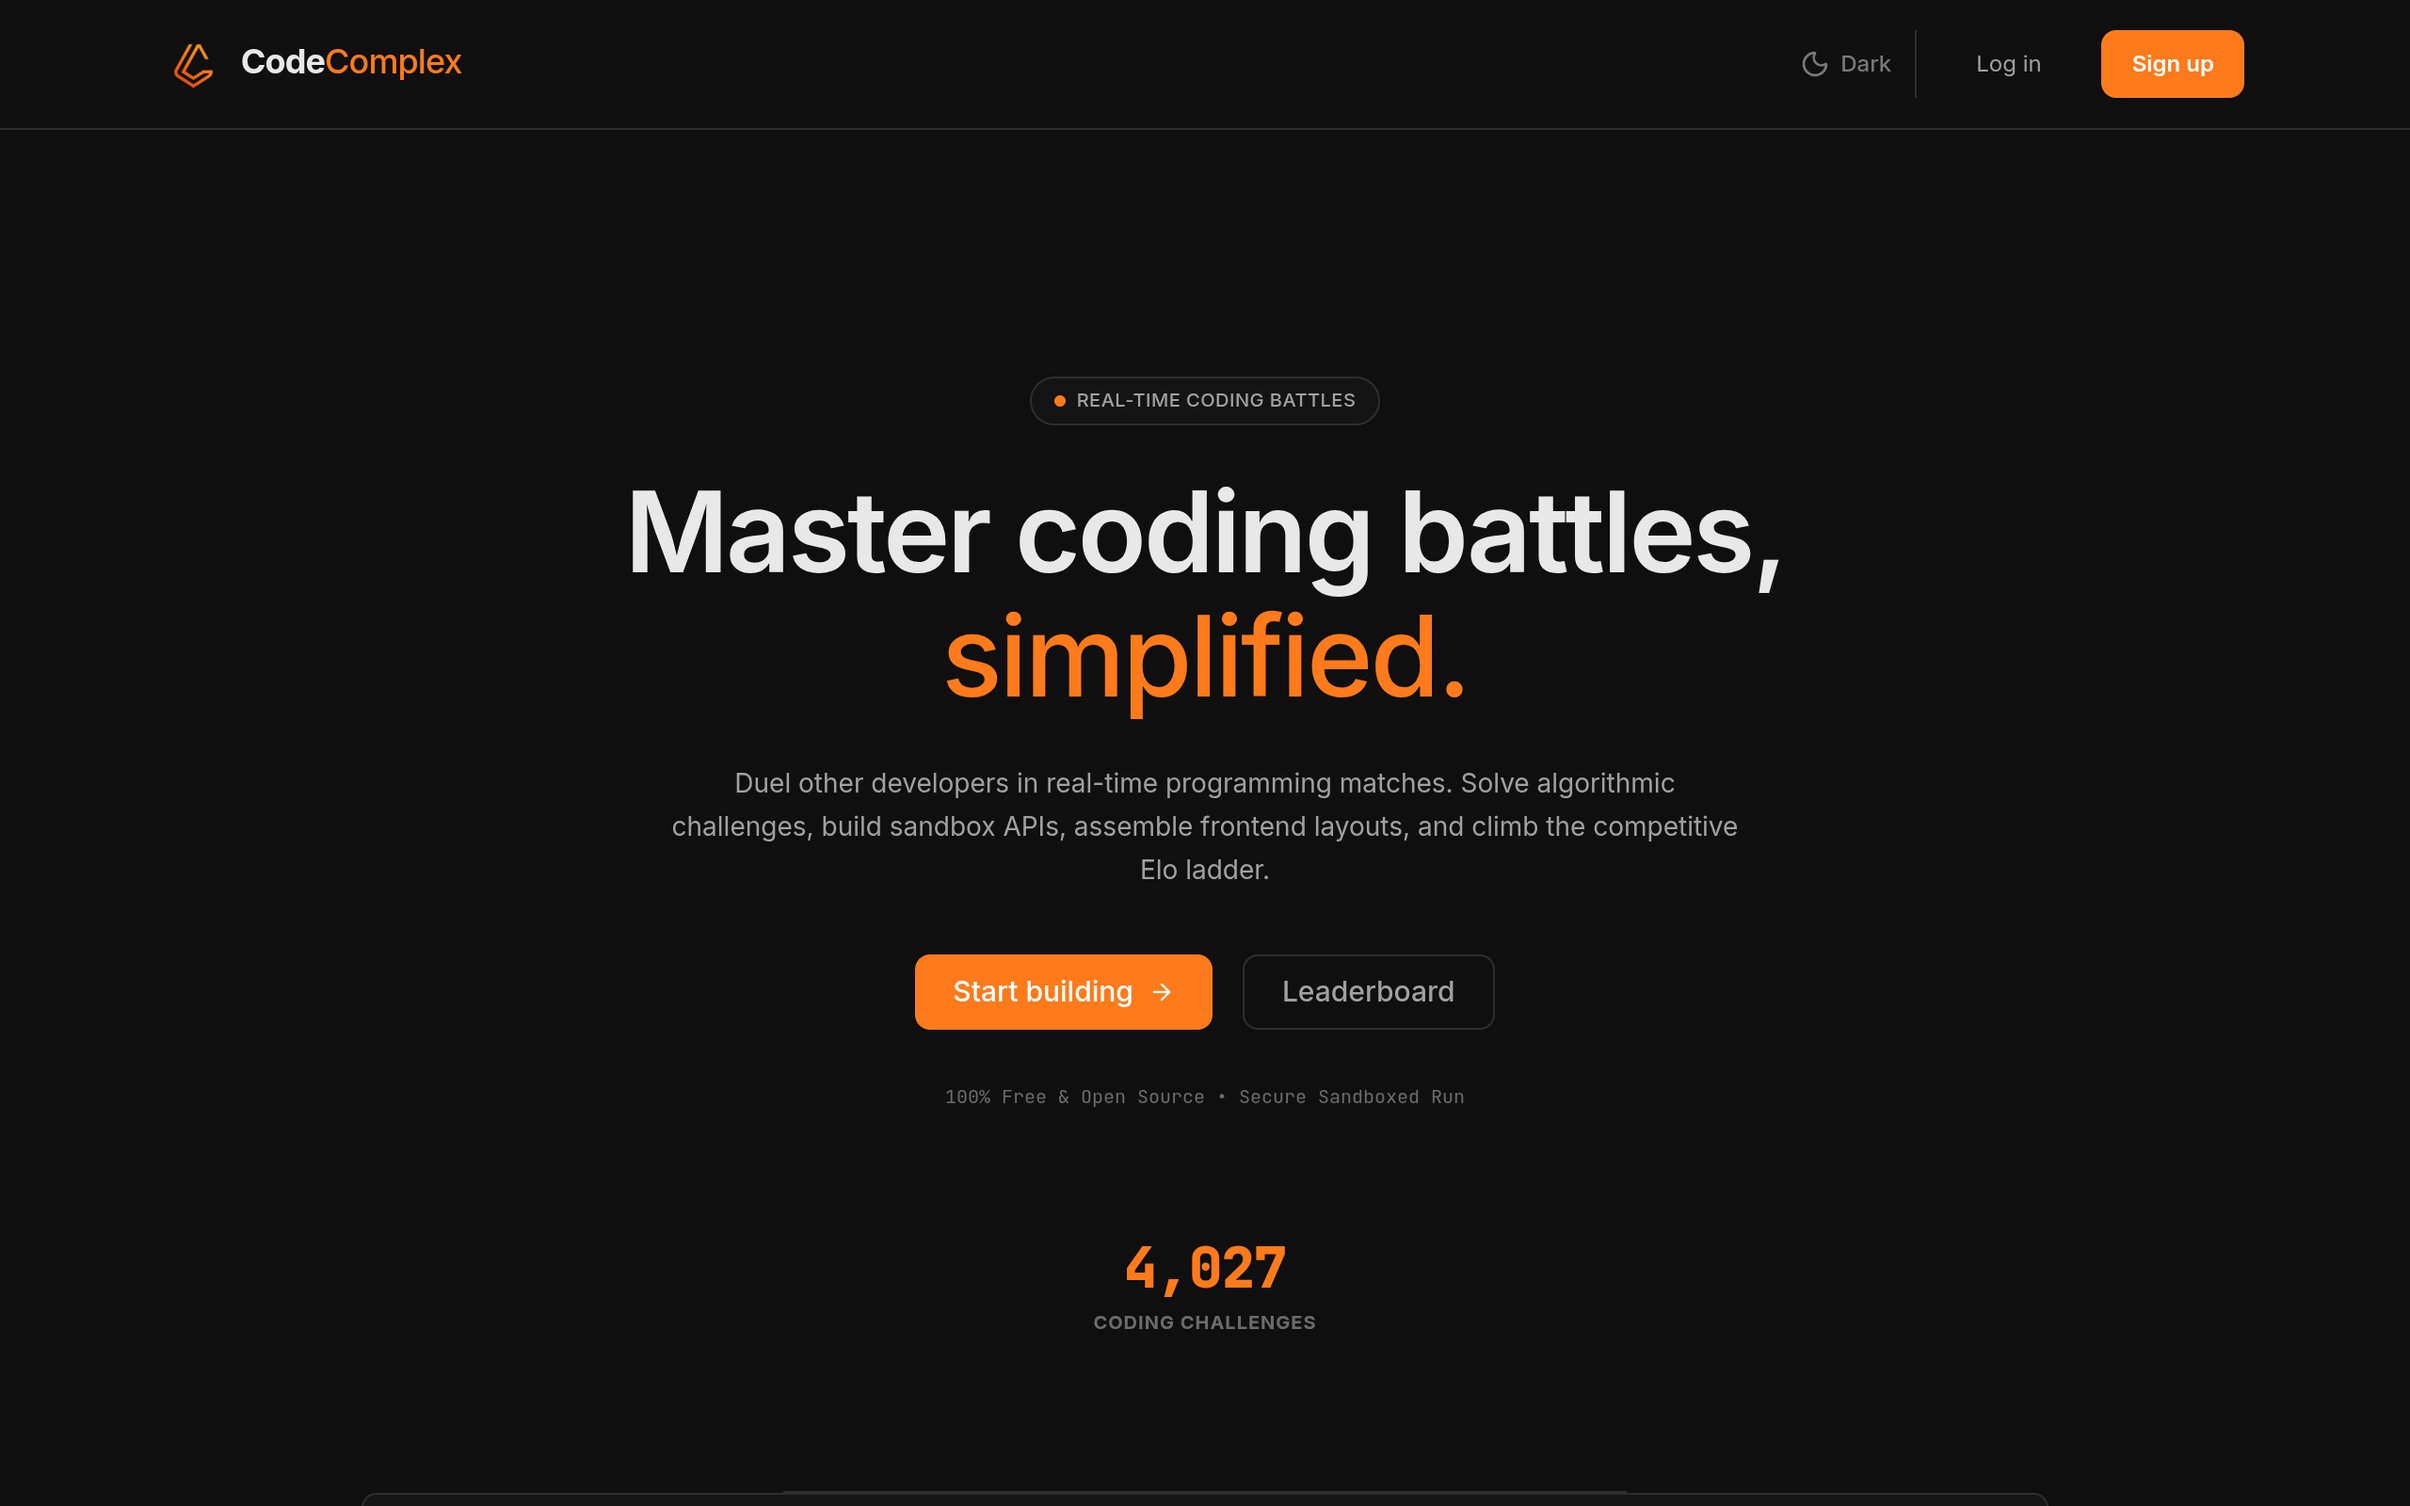
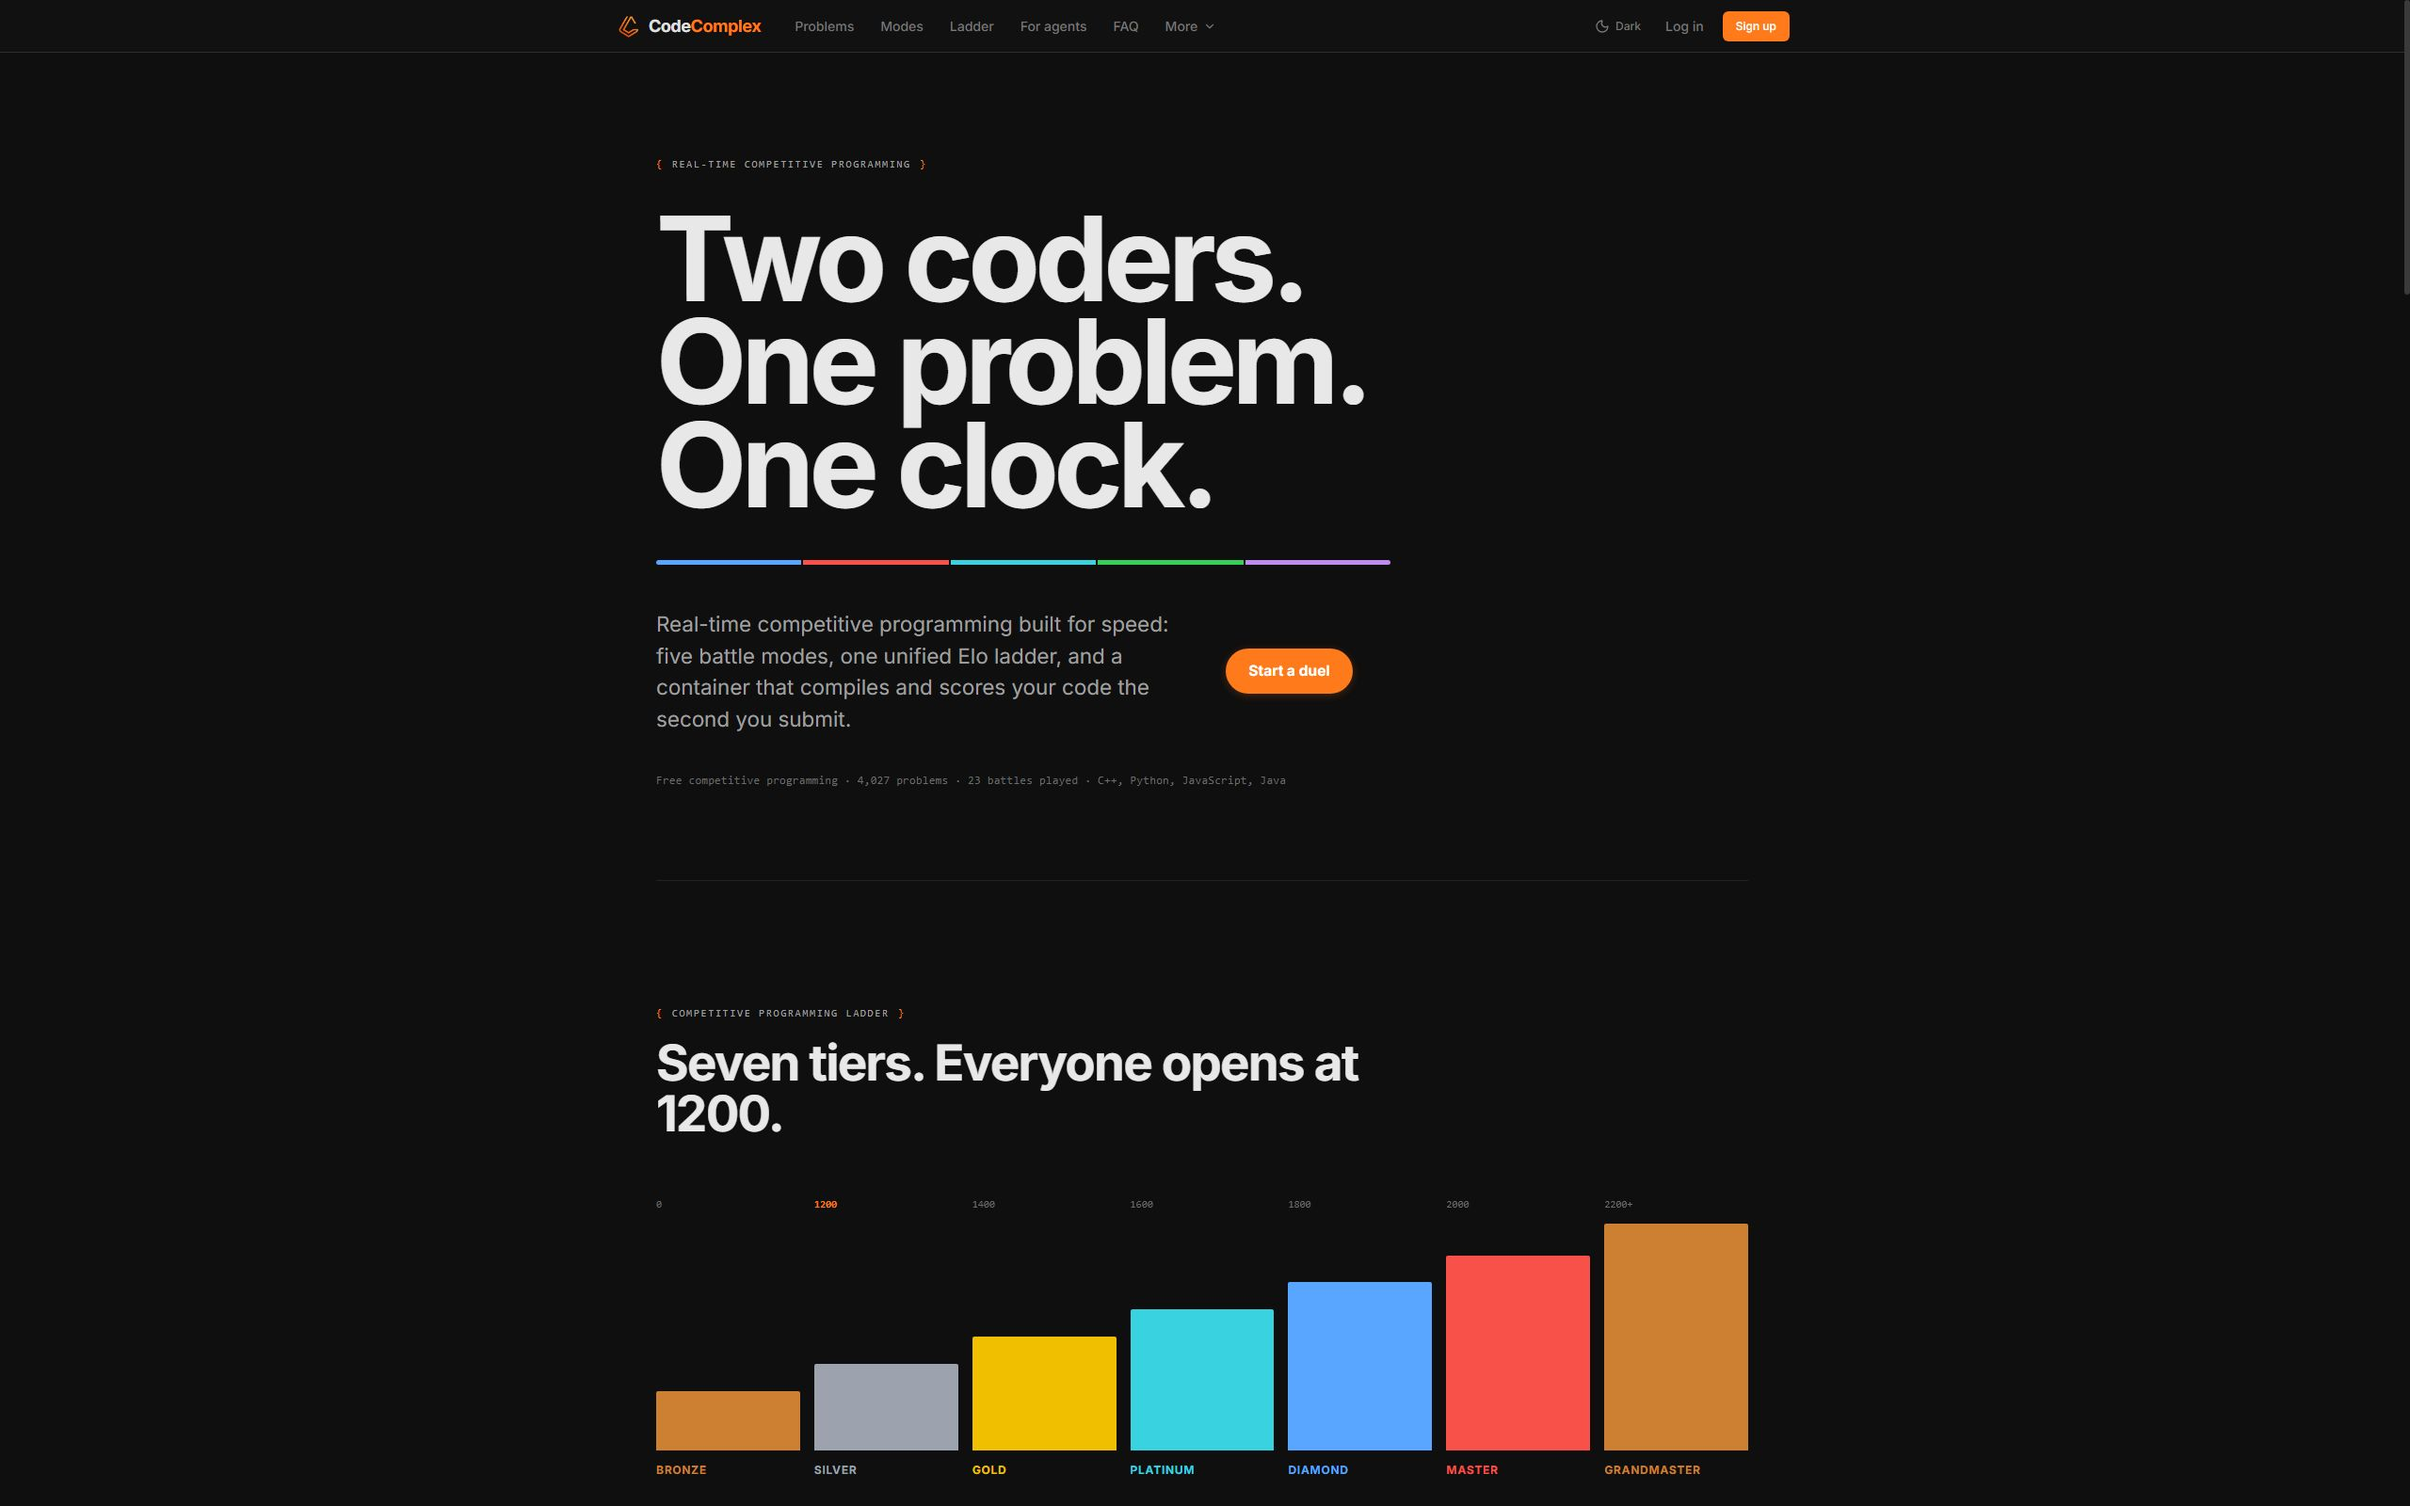
Update screenshots for all projects (CodeComplex, Distributed Cache, NewsComplex)

diff --git a/index.html b/index.html
@@ -445,7 +445,7 @@
       </ul>
       <div class="project-links">
         <a href="https://github.com/sisodiaumang/Blogify" target="_blank" rel="noopener">GitHub ↗</a>
-        <a href="https://newscomplex.site" target="_blank" rel="noopener">Live demo ↗</a>
+        <a href="https://newscomplex.in" target="_blank" rel="noopener">Live demo ↗</a>
       </div>
     </div>
   </div>
@@ -652,7 +652,7 @@
   const sites = [
     { url: 'https://codecomplex.site', label: 'codecomplex.site', caption: 'CodeComplex — real-time coding battles' },
     { url: 'https://self-healing-distributed-cache.onrender.com/', label: 'self-healing-distributed-cache.onrender.com', caption: 'Self-Healing Distributed Cache — consistent hashing & fault tolerance' },
-    { url: 'https://newscomplex.site', label: 'newscomplex.site', caption: 'NewsComplex — server-rendered publishing platform' }
+    { url: 'https://newscomplex.in', label: 'newscomplex.in', caption: 'NewsComplex — server-rendered publishing platform' }
   ];
   const siteImgs = [document.getElementById('siteImg0'), document.getElementById('siteImg1'), document.getElementById('siteImg2')];
   const siteUrlEl = document.getElementById('siteUrl');
